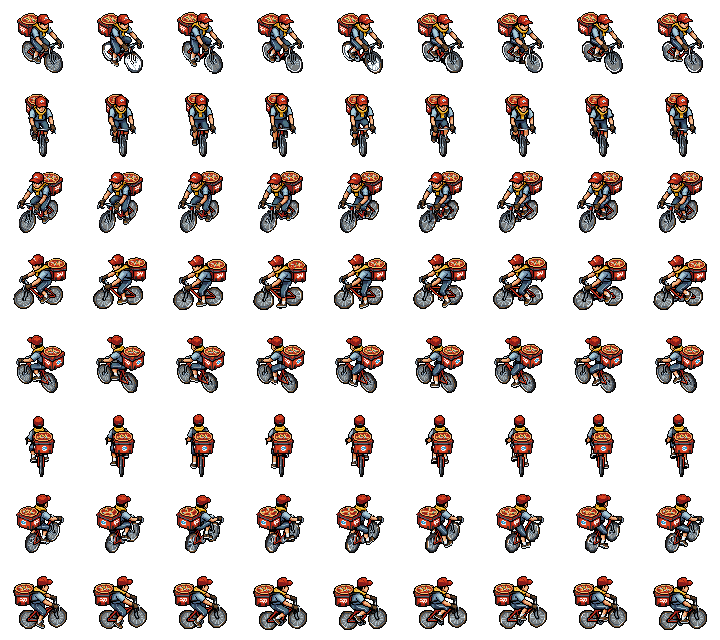
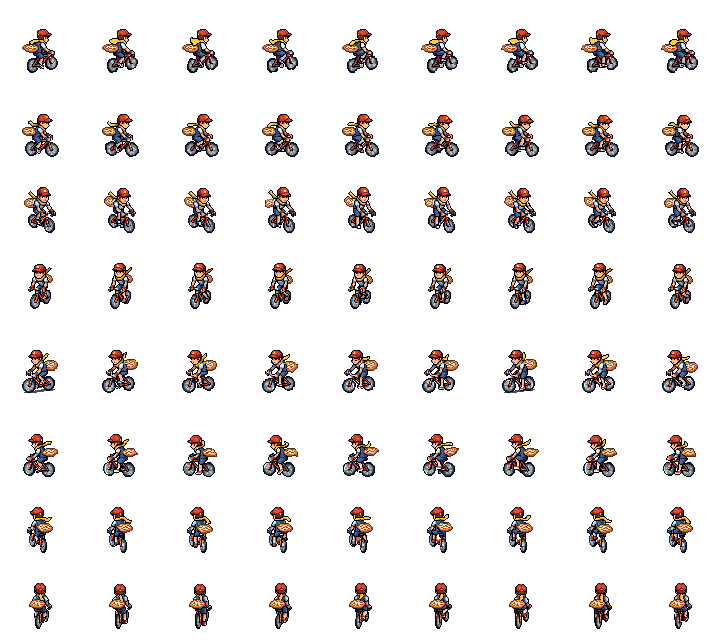
Rookie (PixelLab) as the player's rider
- art/bike_you_pizza.png (with the pizza) and bike_you.png (without) rebuilt from
  the Rookie export, 9 pedal frames each.
- Drop bike_you_boxed.png: Rookie has no empty-box look, so riding around town
  without an order uses the plain sheet.

diff --git a/README.md b/README.md
@@ -170,4 +170,4 @@ scripts/iso.gd, bike_draw.gd   drawing helpers
 bridge/trainer_bridge.py    BLE <-> UDP bridge (Python, bleak)
 ```
 
-Everything is drawn procedurally, but pixel art can replace it piece by piece: whatever has no art keeps its procedural drawing (see `scripts/sprites.gd`). Art is read from `art/` (or the game's user data folder under `art/`, for testing without rebuilding). So far riders can use art: `art/bike.png` is a sheet of 64x64 frames, 4 pedal frames across and 8 directions down (down-right, down, down-left, left, up-left, up, up-right, right), with the wheels touching the ground 12 px above the bottom centre of each frame. Optional greyscale `bike_jersey.png` and `bike_frame.png` layers are tinted per rider, `bike_box.png` shows only while carrying a pizza, and `bike_<rider>.png` (e.g. `bike_dave.png`) gives one rider their own sheet. Instead of the box layer a rider can have whole looks: `bike_<rider>_boxed.png` (riding around town with the delivery box), `bike_<rider>_pizza.png` (carrying a pizza) and `bike_<rider>.png` (no box, for races); sheets can have any number of pedal frames, and a single column is a still. Your rider uses these (`art/bike_you*.png`), built from a PixelLab character export with `godot --headless -s tools/import_rider.gd -- <export dir> Idle=bike_you_pizza Same_thing_but_witho=bike_you_boxed Same_thing_but_no_pi=bike_you`. `PIZZA_DEBUG=bake_bike [PIZZA_WHO=Dave]` draws the current procedural bike in exactly this format to `art/templates/`, as a template to paint over. Dev helpers: `PIZZA_DEBUG=city|race|shop|er|flow|rails|roads|overview godot --path .`; `PIZZA_DEBUG=shot PIZZA_OUT=dir [PIZZA_AT=x,y;...|junctions|shops] [PIZZA_CARRY=1]` saves screenshots (optionally carrying a pizza); `PIZZA_DEBUG=race_shot [PIZZA_COURSE=0|1] PIZZA_OUT=dir` saves race screenshots at the first jump, log, creek and wildlife; `PIZZA_DEBUG=powerups PIZZA_OUT=dir` tries every power-up in town and in a race and saves a screenshot of each; `PIZZA_DEBUG=readme godot --path .` regenerates the README screenshots in `docs/`; `PIZZA_SEASON=spring|summer|fall|winter` forces a season; `PIZZA_DEBUG=seasons [PIZZA_OUT=dir]` saves the title view and each kind of seasonal scenery in every season; `PIZZA_DEBUG=ride [PIZZA_OUT=dir]` rides for a few seconds and writes the Strava TCX file and screenshots.
+Everything is drawn procedurally, but pixel art can replace it piece by piece: whatever has no art keeps its procedural drawing (see `scripts/sprites.gd`). Art is read from `art/` (or the game's user data folder under `art/`, for testing without rebuilding). So far riders can use art: `art/bike.png` is a sheet of 64x64 frames, 4 pedal frames across and 8 directions down (down-right, down, down-left, left, up-left, up, up-right, right), with the wheels touching the ground 12 px above the bottom centre of each frame. Optional greyscale `bike_jersey.png` and `bike_frame.png` layers are tinted per rider, `bike_box.png` shows only while carrying a pizza, and `bike_<rider>.png` (e.g. `bike_dave.png`) gives one rider their own sheet. Instead of the box layer a rider can have whole looks: `bike_<rider>_boxed.png` (riding around town with the delivery box), `bike_<rider>_pizza.png` (carrying a pizza) and `bike_<rider>.png` (no box, for races); sheets can have any number of pedal frames, and a single column is a still. Your rider uses these (`art/bike_you_pizza.png` and `art/bike_you.png`, the PixelLab character "Rookie"), built from its export with `godot --headless -s tools/import_rider.gd -- <export dir> Idle=bike_you_pizza same_thing_but_witho=bike_you`. `PIZZA_DEBUG=bake_bike [PIZZA_WHO=Dave]` draws the current procedural bike in exactly this format to `art/templates/`, as a template to paint over. Dev helpers: `PIZZA_DEBUG=city|race|shop|er|flow|rails|roads|overview godot --path .`; `PIZZA_DEBUG=shot PIZZA_OUT=dir [PIZZA_AT=x,y;...|junctions|shops] [PIZZA_CARRY=1]` saves screenshots (optionally carrying a pizza); `PIZZA_DEBUG=race_shot [PIZZA_COURSE=0|1] PIZZA_OUT=dir` saves race screenshots at the first jump, log, creek and wildlife; `PIZZA_DEBUG=powerups PIZZA_OUT=dir` tries every power-up in town and in a race and saves a screenshot of each; `PIZZA_DEBUG=readme godot --path .` regenerates the README screenshots in `docs/`; `PIZZA_SEASON=spring|summer|fall|winter` forces a season; `PIZZA_DEBUG=seasons [PIZZA_OUT=dir]` saves the title view and each kind of seasonal scenery in every season; `PIZZA_DEBUG=ride [PIZZA_OUT=dir]` rides for a few seconds and writes the Strava TCX file and screenshots.
